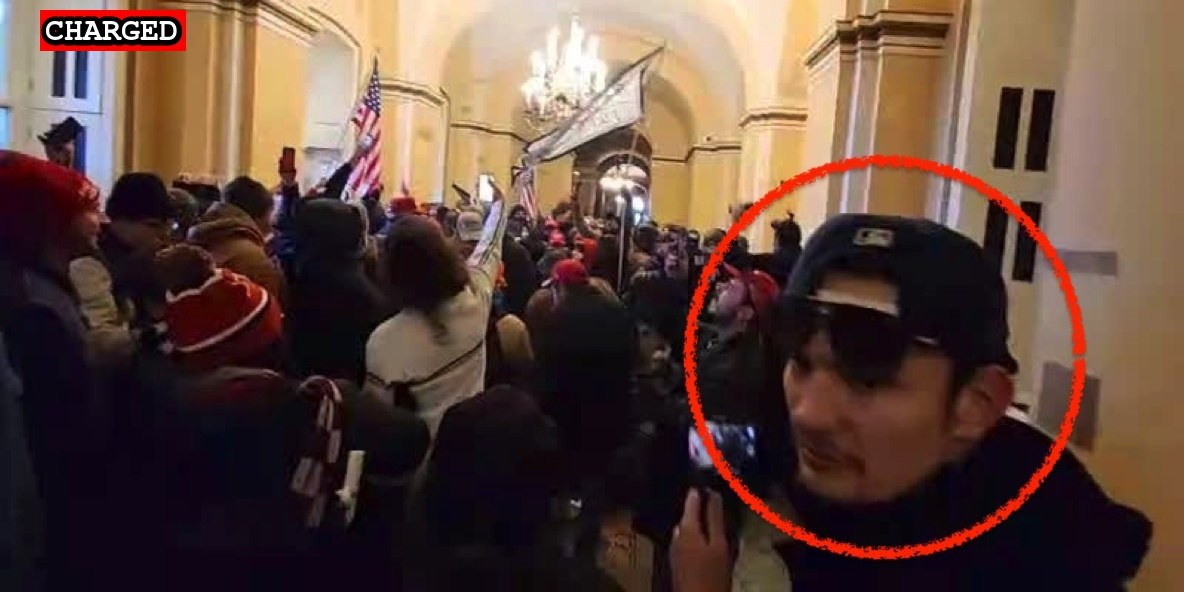
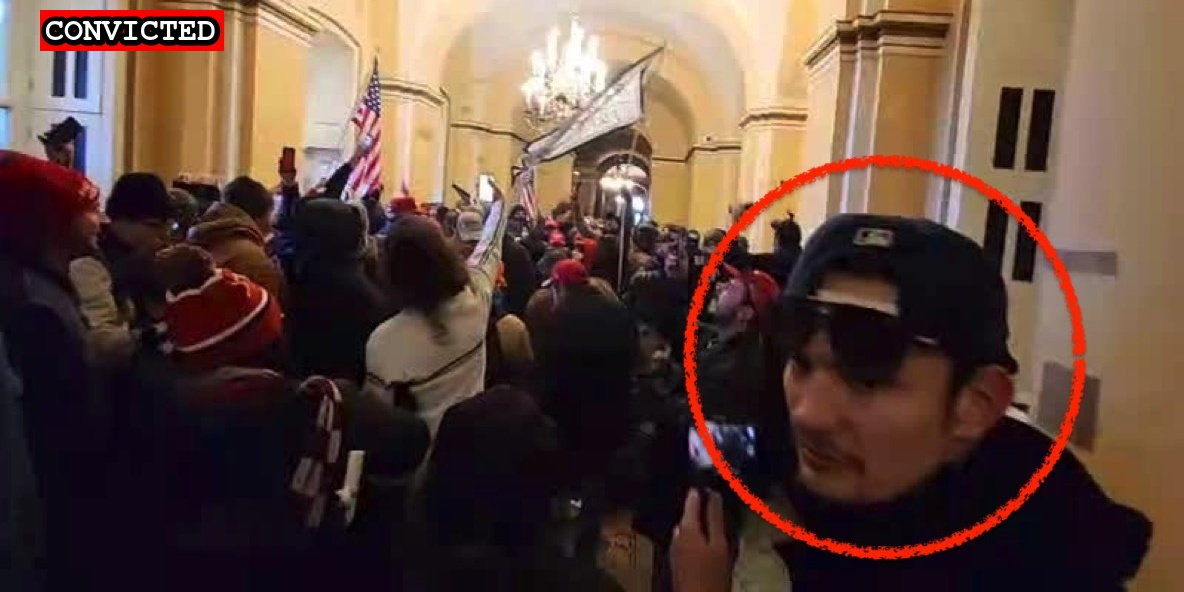
Caleb Jones plea

Changed region(s): [[0.0312, 0.0, 0.1875, 0.0912]]

diff --git a/docs/_suspects/caleb-jones.md b/docs/_suspects/caleb-jones.md
@@ -3,13 +3,13 @@ name: Caleb Jones
 lastName: Jones
 aka:
 residence: Ohio
-status: Charged
+status: Convicted
 date: 2021-03-22
 charged: 2021-03-22
 indicted:
-convicted: 
+convicted: 2021-09-21
 sentenced:
-dismissed: 
+dismissed:
 deceased:
 age: 23
 occupation:
@@ -29,7 +29,13 @@ author: seditiontrack
 layout: suspect
 published: true
 caseNumber: 1:21-cr-321
+charges:
+  - code: 18 USC § 5104(e)(2)(G)
+    title: Parading, Demonstrating or Picketing in a Capitol Building
+    url: https://www.law.cornell.edu/uscode/text/40/5104
+    felony: false
 ---
+
 - [News Report](https://www.nbc4i.com/news/local-news/columbus-man-23-charged-in-captiol-riot/)
 - [Statement of Facts](https://www.justice.gov/usao-dc/case-multi-defendant/file/1381496/download)
 - [Information](https://www.justice.gov/usao-dc/case-multi-defendant/file/1418046/download)
